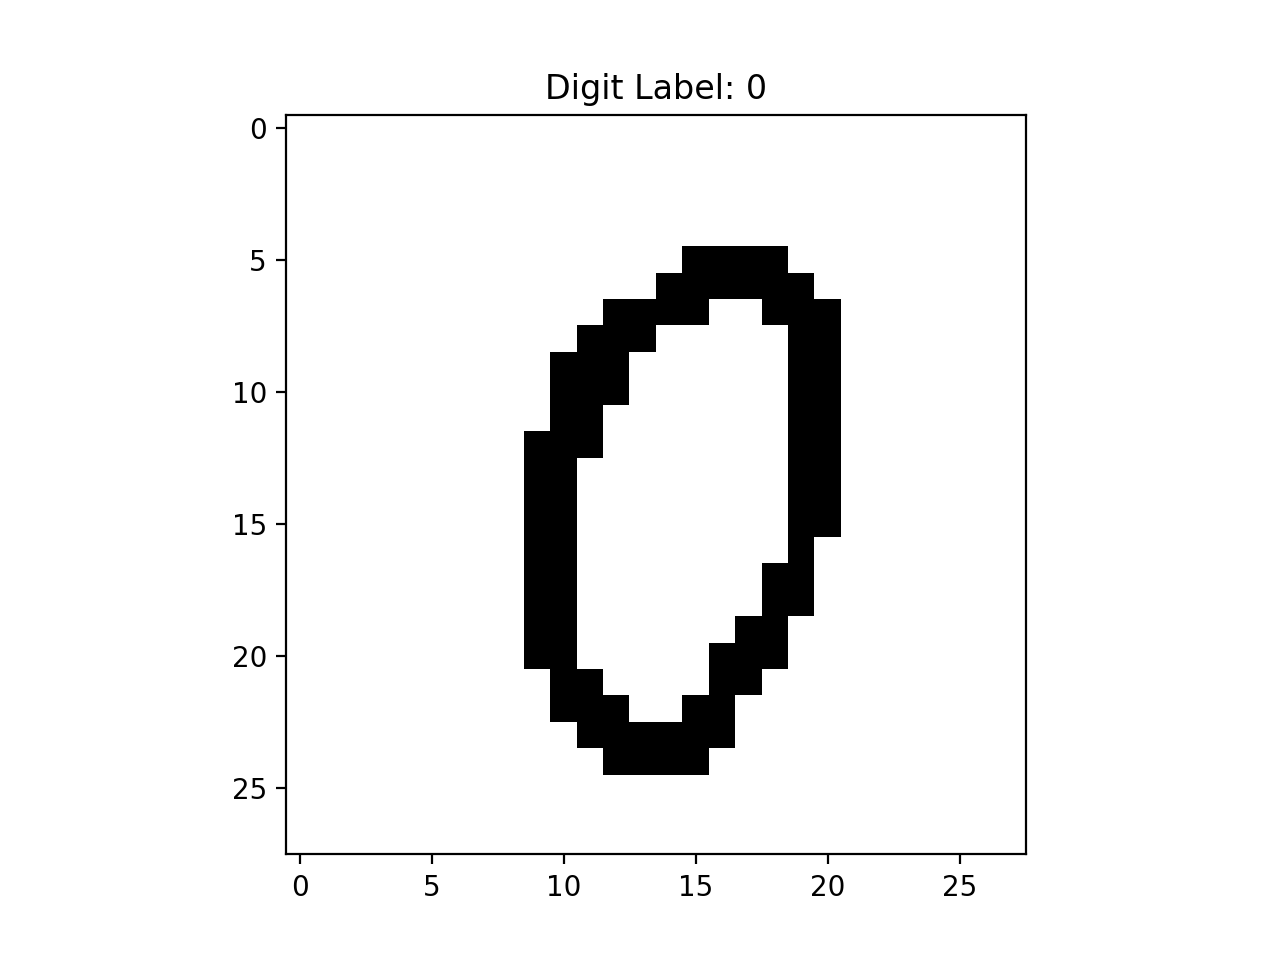
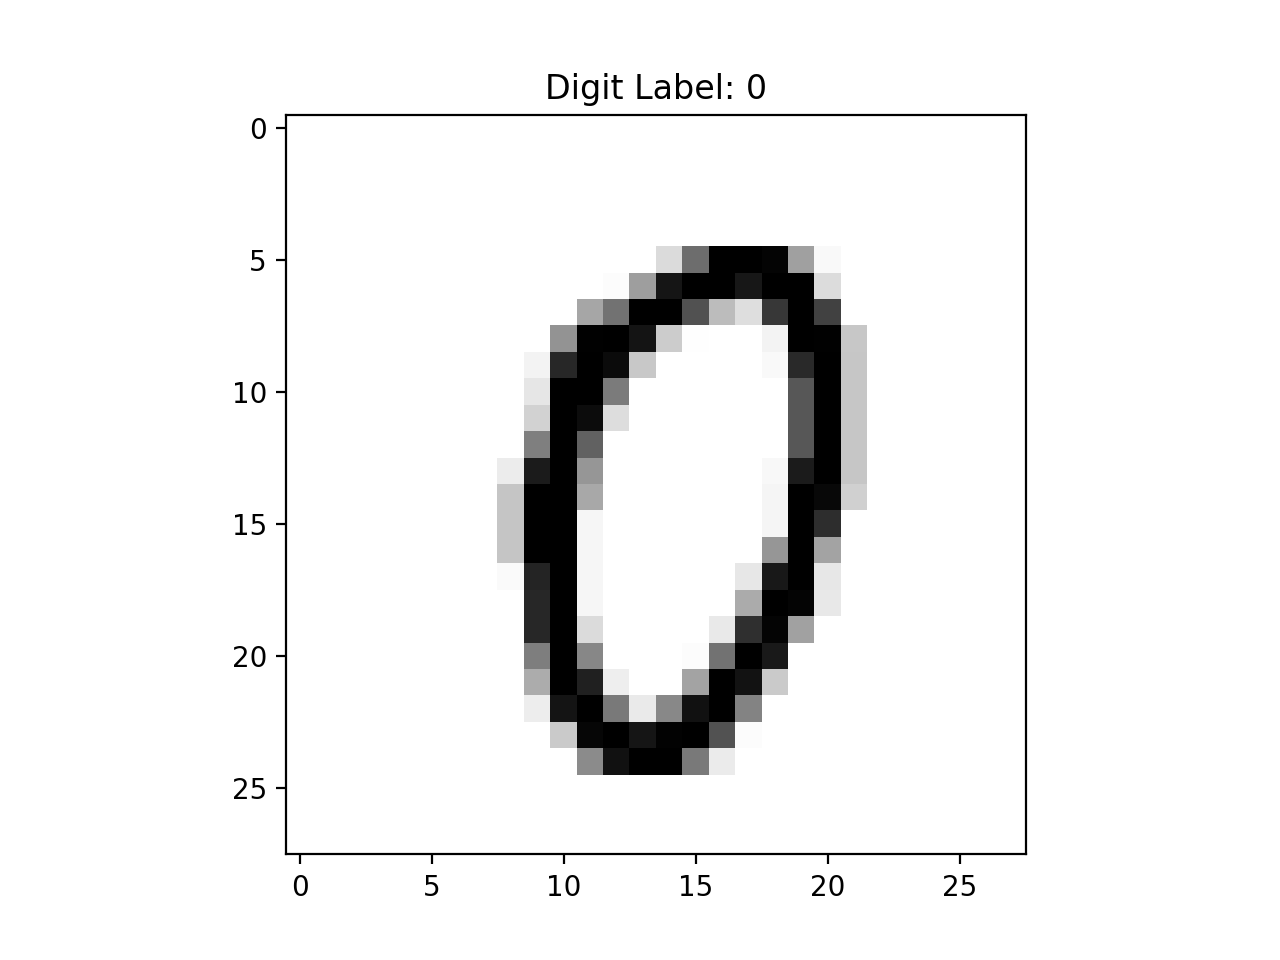
prelim results

Changed region(s): [[0.375, 0.25, 0.6875, 0.8125], [0.4688, 0.5938, 0.6562, 0.8125], [0.5938, 0.5312, 0.6562, 0.5938]]

diff --git a/train_mnist.py b/train_mnist.py
@@ -3,6 +3,7 @@ import time
 import numpy as np 
 from scipy.special import expit
 from sklearn.utils import gen_even_slices
+import matplotlib.pyplot as plt
 
 # homemade
 from helpers.importer import import_mnist
@@ -10,23 +11,29 @@ import helpers.viewer as viewer
 from models.rbm import RBM
 
 images, labels = import_mnist();
-images = np.floor(2 * (images - np.min(images, 0)) / (np.max(images, 0) + 0.0001));
+# images = np.floor(2 * (images - np.min(images, 0)) / (np.max(images, 0) + 0.0001));
+images = (images - np.min(images, 0)) / (np.max(images, 0) + 0.0001);
 
 rbm = RBM(images);
 rbm.train();
 
-n_samples = 8; 
+n_samples = 20; 
+n_images_per_sample = 10; 
+n_gibbs = 10; 
+
+total_image = np.zeros(((n_images_per_sample) * 28, (n_samples) * 28));
 
 # loop to generate n_samples
 for i in range(0, n_samples):
     # sample an image
     visible = images[i*1000]
 
-    viewer.view_data(visible, labels[i*1000]);
-    
-    # perform 1000 steps of Gibbs sampling
-    for j in range(0, 1000):
-        hidden = rbm.sample_h_from_v(visible);
-        visible = rbm.sample_v_from_h(hidden); 
+    for j in range(0, n_images_per_sample):
+        total_image[j*28:(j+1)*28,i*28:(i+1)*28] = np.reshape(visible, (28, 28));
+
+        for k in range(0, n_gibbs):
+            hidden = rbm.sample_h_from_v(visible);
+            visible = rbm.sample_v_from_h(hidden); 
         
-    viewer.view_data(visible, labels[i*1000]);
+plt.imshow(total_image, cmap='gray_r');
+plt.show();

diff --git a/models/rbm.py b/models/rbm.py
@@ -4,7 +4,7 @@ from scipy.special import expit
 from sklearn.utils import gen_even_slices
 
 class RBM:
-    def __init__(self, data, batch_size=10, num_iter=10, learning_rate=0.1, num_h=784):
+    def __init__(self, data, batch_size=10, num_iter=30, learning_rate=0.01, num_h=784):
         num_v = data.shape[1]
 
         # initialize hyperparameters
@@ -47,7 +47,9 @@ class RBM:
     def sample_v_from_h(self, h):
         prob = self.mean_visible_field(h);
 
-        return (self.rng.random_sample(size=prob.shape) < prob);
+        # return (self.rng.random_sample(size=prob.shape) < prob);
+        # Hinton suggests keeping probabilities
+        return prob;
 
     def fit_batch(self, v_pos):
         # compute hidden and visible, positive and negative phases

diff --git a/baseline.py b/baseline.py
@@ -7,7 +7,7 @@ import helpers.viewer as viewer
 images, labels = import_mnist();
 images = np.floor(2 * (images - np.min(images, 0)) / (np.max(images, 0) + 0.0001));
 
-model = BernoulliRBM(learning_rate=0.01, batch_size=10, n_iter=8, n_components=784, verbose=True);
+model = BernoulliRBM(learning_rate=0.05, batch_size=10, n_iter=20, n_components=400, verbose=True);
 model.fit(images);
 
 n_samples = 5; 
